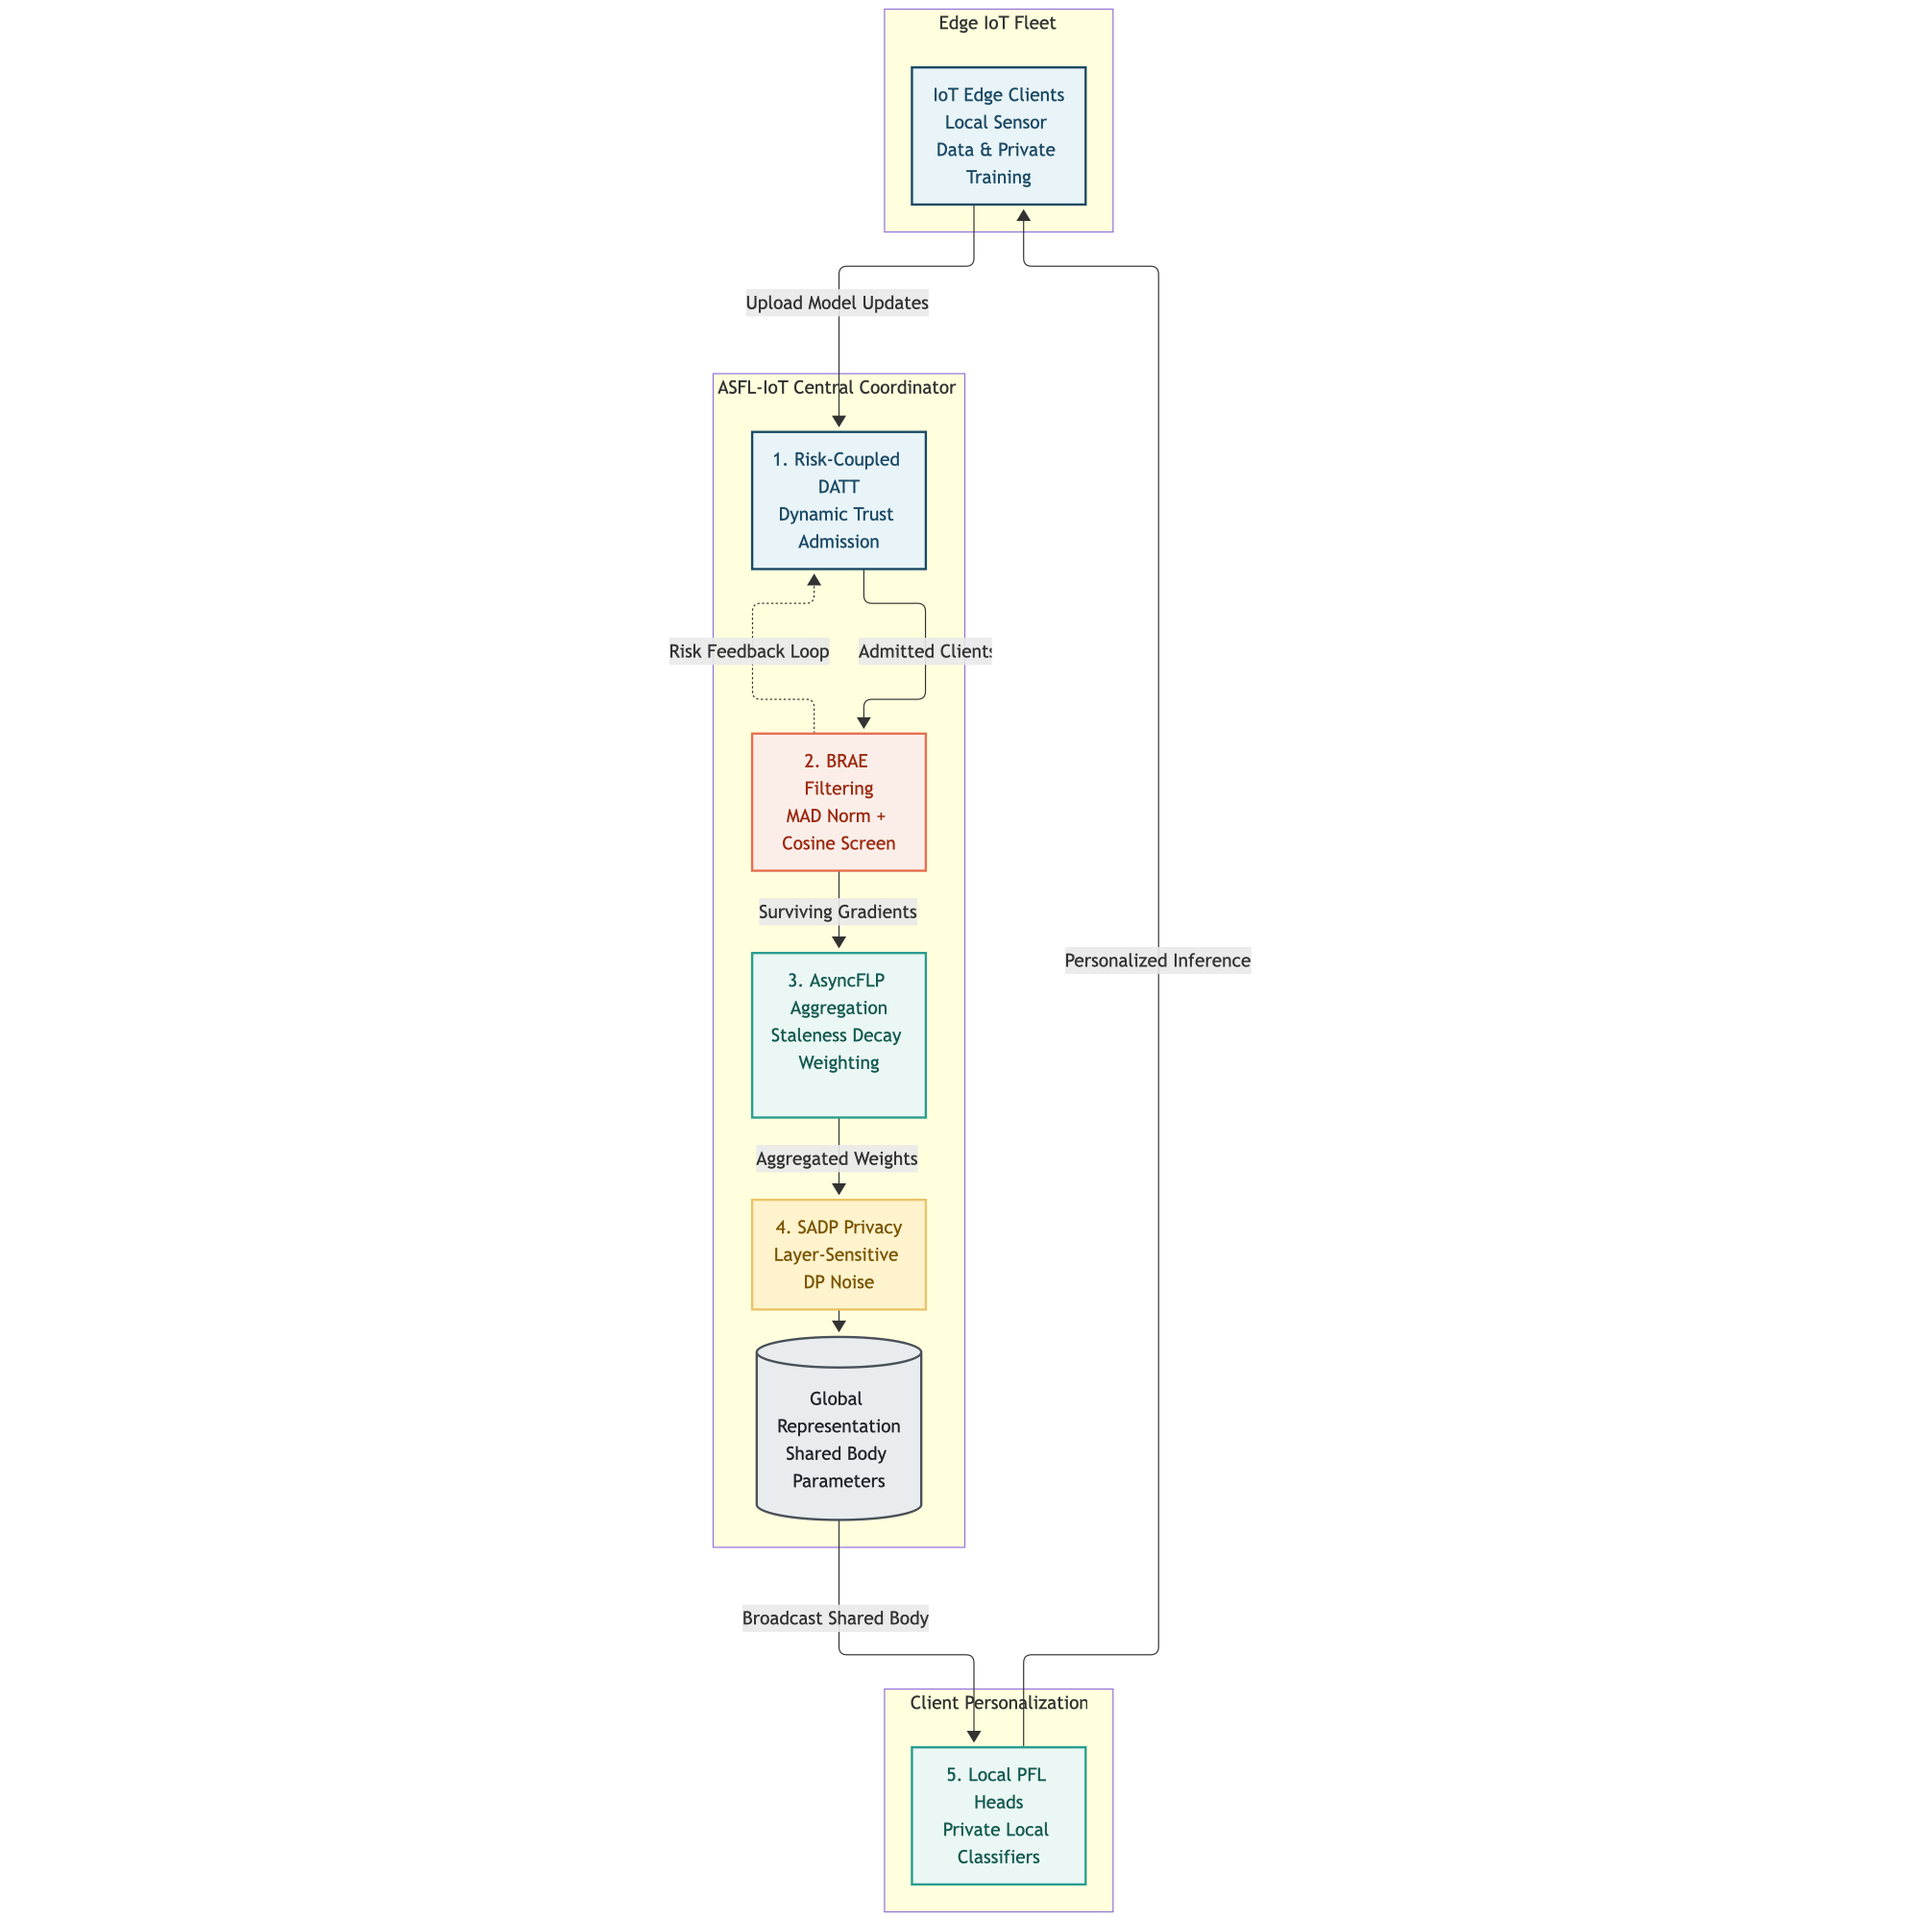
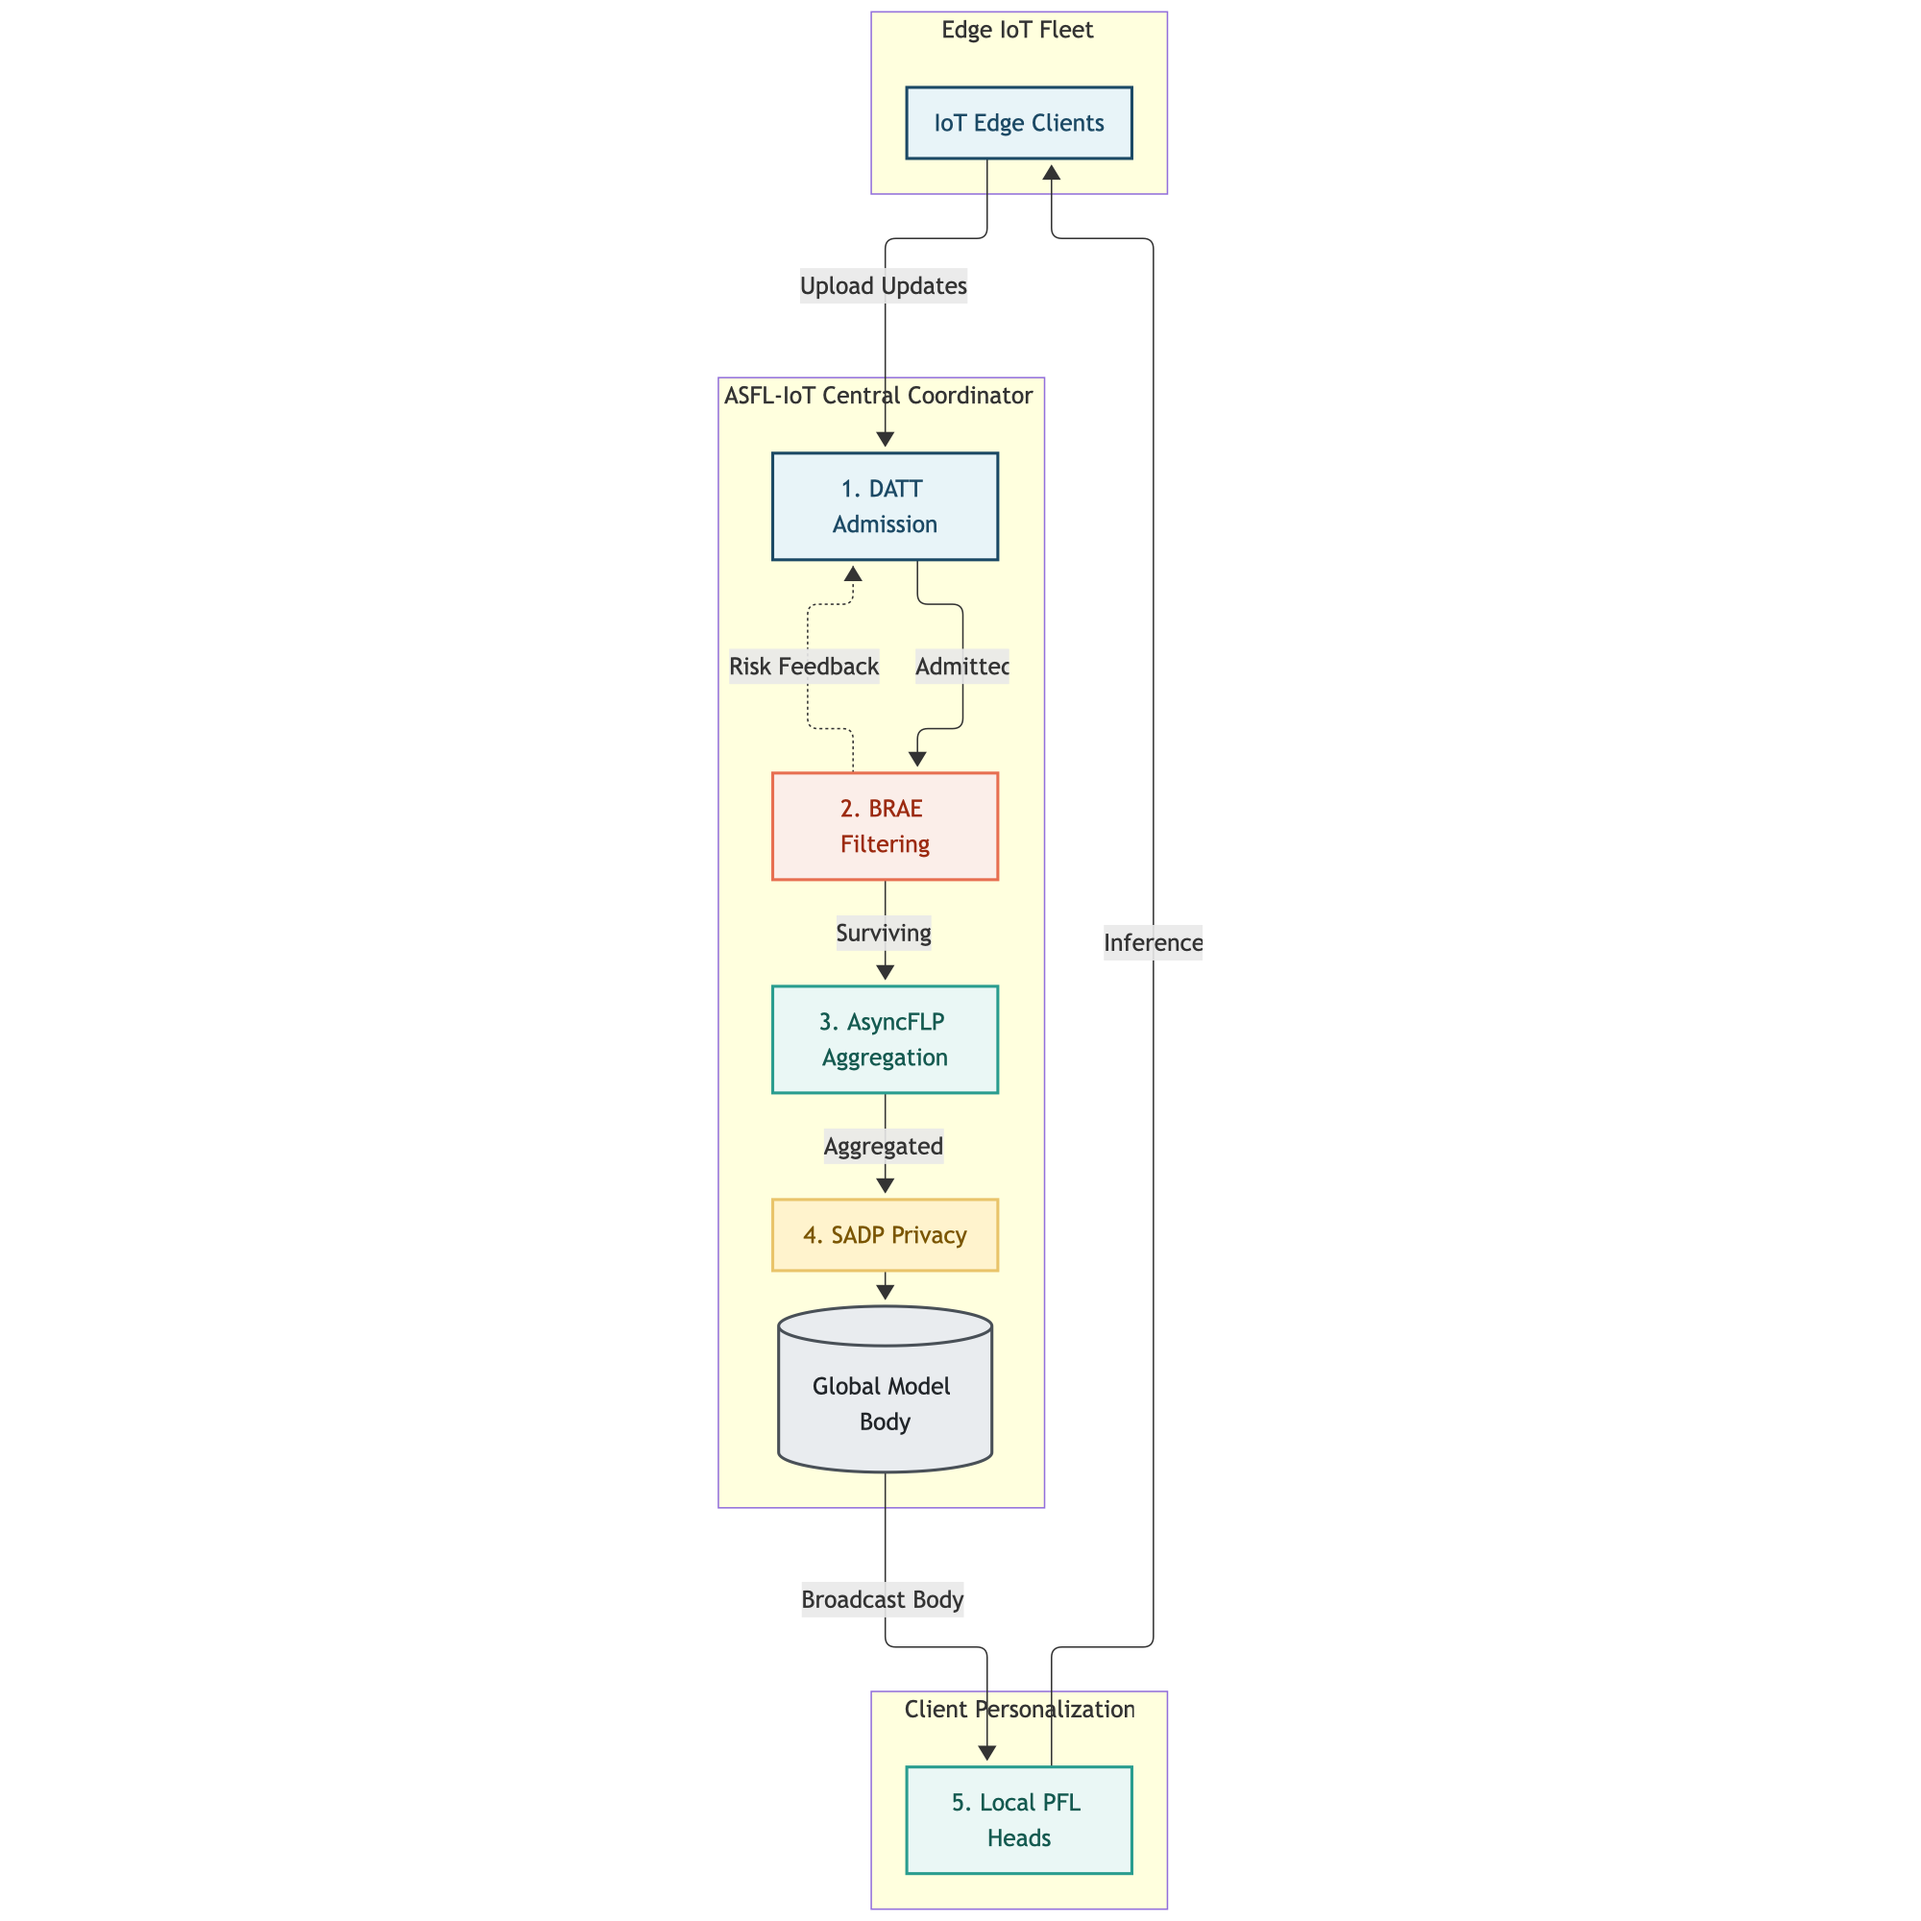
fix(docs): synchronize camera-ready title, IEEE conference metadata, pending publication status, and streamline mermaid diagram

Changed region(s): [[0.372, 0.0, 0.651, 1.0]]

diff --git a/README.md b/README.md
@@ -2,17 +2,18 @@
 
 # 🛡 ASFL-IoT
 
-### Risk-Coupled Adaptive Secure Federated Learning<br/>for Trust-Aware Internet-of-Things Systems
+### Adaptive Secure Federated Learning for Trust-Aware IoT
 
-[![Conference](https://img.shields.io/badge/IEEE%20ICES%26T%202026-Accepted%20(Paper%20%2321)-1B4965?style=for-the-badge&logo=ieee)](docs/acceptance.md)
+[![Conference](https://img.shields.io/badge/2nd%20IEEE%20ICES%26T%202026-Accepted%20%26%20Presented%20(Paper%20%2321)-1B4965?style=for-the-badge&logo=ieee)](docs/acceptance.md)
 
 [![Python Version](https://img.shields.io/badge/Python-3.9%20%7C%203.10%20%7C%203.11%20%7C%203.12-2A9D8F?style=flat-square&logo=python&logoColor=white)](https://python.org)
 [![PyTorch](https://img.shields.io/badge/PyTorch-2.0%2B-EE4C2C?style=flat-square&logo=pytorch&logoColor=white)](https://pytorch.org)
 [![License: MIT](https://img.shields.io/badge/License-MIT-yellow.svg?style=flat-square)](LICENSE)
 [![CI Status](https://img.shields.io/badge/CI-Passing-brightgreen?style=flat-square&logo=githubactions&logoColor=white)](.github/workflows/ci.yml)
 
-**Official open-source repository** for the IEEE conference paper, accepted for the<br/>
-*2026 IEEE International Conference on Emerging Trends in Science and Technology (ICES&T 2026)*.
+**Official open-source repository** for the IEEE conference paper, accepted and presented at the<br/>
+*2nd IEEE International Conference on Emerging Trends in Engineering, Sciences and Technology (ICES&T 2026)*<br/>
+*(Organized in collaboration with IEEE Bahawalpur Subsection)*.
 
 [Overview](#-executive-summary) •
 [Architecture](#-system-architecture--round-lifecycle) •
@@ -58,31 +59,31 @@ Existing solutions treat these stressors in isolation, often causing defenses to
 ```mermaid
 flowchart TD
     subgraph Fleet["Edge IoT Fleet"]
-        C["IoT Edge Clients<br/>Local Sensor Data & Private Training"]
+        C["IoT Edge Clients"]
     end
 
-    subgraph Coordinator["ASFL-IoT Central Coordinator — Round Lifecycle"]
+    subgraph Coordinator["ASFL-IoT Central Coordinator"]
         direction TB
-        DATT["1. Risk-Coupled DATT<br/>Dynamic Trust Admission"]
-        BRAE["2. BRAE Filtering<br/>MAD Norm + Cosine Screen"]
-        ASYNC["3. AsyncFLP Aggregation<br/>Staleness Decay Weighting"]
-        SADP["4. SADP Privacy<br/>Layer-Sensitive DP Noise"]
-        GLOBAL[("Global Representation<br/>Shared Body Parameters")]
+        DATT["1. DATT Admission"]
+        BRAE["2. BRAE Filtering"]
+        ASYNC["3. AsyncFLP Aggregation"]
+        SADP["4. SADP Privacy"]
+        GLOBAL[("Global Model Body")]
 
-        DATT -->|Admitted Clients| BRAE
-        BRAE -->|Surviving Gradients| ASYNC
-        ASYNC -->|Aggregated Weights| SADP
+        DATT -->|Admitted| BRAE
+        BRAE -->|Surviving| ASYNC
+        ASYNC -->|Aggregated| SADP
         SADP --> GLOBAL
-        BRAE -.->|Risk Feedback Loop| DATT
+        BRAE -.->|Risk Feedback| DATT
     end
 
     subgraph Personalization["Client Personalization"]
-        PFL["5. Local PFL Heads<br/>Private Local Classifiers"]
+        PFL["5. Local PFL Heads"]
     end
 
-    C -->|Upload Model Updates| DATT
-    GLOBAL -->|Broadcast Shared Body| PFL
-    PFL -->|Personalized Inference| C
+    C -->|Upload Updates| DATT
+    GLOBAL -->|Broadcast Body| PFL
+    PFL -->|Inference| C
 
     style C fill:#e8f4f8,stroke:#1B4965,stroke-width:2px,color:#1B4965
     style DATT fill:#e8f4f8,stroke:#1B4965,stroke-width:2px,color:#1B4965
@@ -297,18 +298,18 @@ python scripts/generate_plots.py --results-dir results --fig-dir results/figures
 
 ## 📜 Paper & Citation
 
-> **Note:** The full paper is accepted for publication and will be formally indexed in the IEEE Xplore Digital Library (*Proceedings of the 2026 IEEE International Conference on Emerging Trends in Science and Technology*). For preprint or author-accepted manuscript requests, please reach out to the authors.
+> **Note:** The paper was formally accepted and presented at the **2nd IEEE International Conference on Emerging Trends in Engineering, Sciences and Technology (ICES&T 2026)**, organized in collaboration with **IEEE Bahawalpur Subsection**. Publication proceedings are currently pending in the IEEE Xplore Digital Library. For preprint or author-accepted manuscript requests, please contact the authors.
 
 If you find this work, codebase, or benchmark useful in your research, please cite:
 
 ```bibtex
 @inproceedings{zulfiqar2026asfl,
-  title={{ASFL-IoT: Risk-Coupled Adaptive Secure Federated Learning for Trust-Aware Internet-of-Things Systems}},
+  title={{ASFL-IoT: Adaptive Secure Federated Learning for Trust-Aware IoT}},
   author={Zulfiqar, Saliha and Farooq, Muhammad Umar and Hussain, Muhammad Zunnurain and Hasan, Muhammad Zulkifl},
-  booktitle={Proceedings of the 2026 IEEE International Conference on Emerging Trends in Science and Technology (ICES\&T)},
+  booktitle={Proceedings of the 2nd IEEE International Conference on Emerging Trends in Engineering, Sciences and Technology (ICES\&T 2026)},
   year={2026},
   organization={IEEE},
-  note={Paper ID: 21}
+  note={Accepted and Presented; publication pending in IEEE Xplore. Paper ID: 21}
 }
 ```
 

diff --git a/docs/acceptance.md b/docs/acceptance.md
@@ -1,8 +1,9 @@
 # Conference Acceptance & Publication Details
 
-**Conference:** 2026 IEEE International Conference on Emerging Trends in Science and Technology (ICES&T 2026)  
+**Conference:** 2nd IEEE International Conference on Emerging Trends in Engineering, Sciences and Technology (ICES&T 2026)  
+**Organizers:** Organized in collaboration with IEEE Bahawalpur Subsection  
 **Paper ID:** #21  
-**Title:** *ASFL-IoT: Risk-Coupled Adaptive Secure Federated Learning for Trust-Aware Internet-of-Things Systems*  
+**Title:** *ASFL-IoT: Adaptive Secure Federated Learning for Trust-Aware IoT*  
 **Authors:** Saliha Zulfiqar, Muhammad Umar Farooq, Muhammad Zunnurain Hussain, Muhammad Zulkifl Hasan  
 **Affiliations:** 
 - Department of Artificial Intelligence, University of Management and Technology (UMT), Lahore, Pakistan
@@ -11,7 +12,7 @@
 
 ## Acceptance Notice
 
-The paper was formally accepted for presentation and publication by the ICES&T 2026 Program Committee.
+The paper was formally accepted and presented at the 2nd IEEE ICES&T 2026. Official publication proceedings are currently pending in the IEEE Xplore Digital Library.
 
 ## Review Highlights & Addressed Feedback
 
